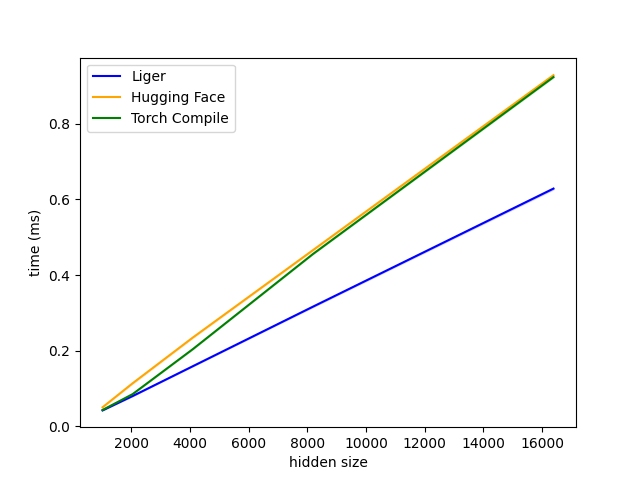
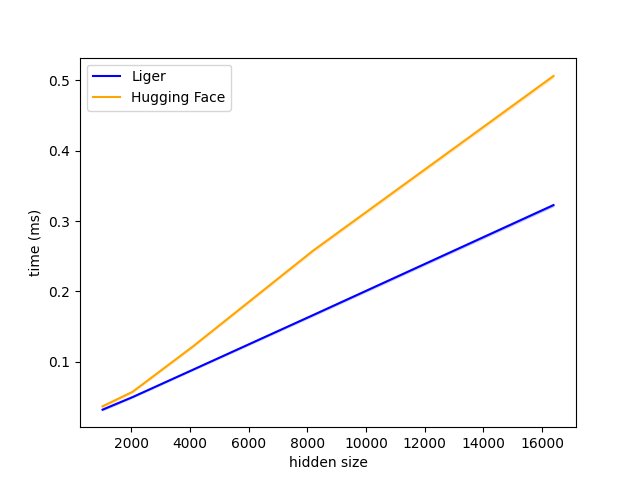
Remove torch compile from benchmark scripts

diff --git a/benchmark/benchmark_layer_norm.py b/benchmark/benchmark_layer_norm.py
@@ -15,9 +15,9 @@ from liger_kernel.transformers.layer_norm import LigerLayerNorm
             x_vals=[2**i for i in range(10, 15)],
             xlabel="hidden size",
             line_arg="provider",
-            line_vals=["liger", "huggingface", "torch_compile"],
-            line_names=["Liger", "Hugging Face", "Torch Compile"],
-            styles=[("blue", "solid"), ("orange", "solid"), ("green", "solid")],
+            line_vals=["liger", "huggingface"],
+            line_names=["Liger", "Hugging Face"],
+            styles=[("blue", "solid"), ("orange", "solid")],
             ylabel="time (ms)",
             plot_name="layernorm-fwd-speed-benchmark",
             args={"M": 4096, "dtype": torch.float32, "mode": "forward"},
@@ -27,9 +27,9 @@ from liger_kernel.transformers.layer_norm import LigerLayerNorm
             x_vals=[2**i for i in range(10, 15)],
             xlabel="hidden size",
             line_arg="provider",
-            line_vals=["liger", "huggingface", "torch_compile"],
-            line_names=["Liger", "Hugging Face", "Torch Compile"],
-            styles=[("blue", "solid"), ("orange", "solid"), ("green", "solid")],
+            line_vals=["liger", "huggingface"],
+            line_names=["Liger", "Hugging Face"],
+            styles=[("blue", "solid"), ("orange", "solid")],
             ylabel="time (ms)",
             plot_name="layernorm-full-speed-benchmark",
             args={"M": 4096, "dtype": torch.float32, "mode": "full"},
@@ -40,7 +40,6 @@ def bench_speed_layer_norm(M, N, dtype, provider, mode, eps=1e-6, device="cuda")
     x_shape = (M, N)
     triton_ln = LigerLayerNorm(hidden_size=N).to("cuda")
     torch_ln = torch.nn.LayerNorm(N, eps=eps).to("cuda")
-    torch_compile_ln = torch.compile(torch_ln)
 
     x = torch.randn(x_shape, dtype=dtype, device="cuda")
     dy = torch.randn_like(x)
@@ -52,8 +51,6 @@ def bench_speed_layer_norm(M, N, dtype, provider, mode, eps=1e-6, device="cuda")
             return triton_ln(x)
         if provider == "huggingface":
             return torch_ln(x)
-        if provider == "torch_compile":
-            return torch_compile_ln(x)
 
     if mode == "forward":
         ms, min_ms, max_ms = triton.testing.do_bench(
@@ -98,9 +95,9 @@ def benchmark_speed_layer_norm_wrapper():
             x_vals=[2**i for i in range(10, 15)],
             xlabel="hidden size",
             line_arg="provider",
-            line_vals=["liger", "huggingface", "torch_compile"],
-            line_names=["Liger", "Hugging Face", "Torch Compile"],
-            styles=[("blue", "solid"), ("orange", "solid"), ("green", "solid")],
+            line_vals=["liger", "huggingface"],
+            line_names=["Liger", "Hugging Face"],
+            styles=[("blue", "solid"), ("orange", "solid")],
             ylabel="GPU memory usage (MB)",
             plot_name="layernorm-full-memory-benchmark",
             args={"M": 4096, "dtype": torch.float32, "mode": "full"},
@@ -112,7 +109,6 @@ def bench_memory_layer_norm(M, N, dtype, provider, mode, eps=1e-6, device="cuda"
 
     triton_ln = LigerLayerNorm(hidden_size=N).to("cuda")
     torch_ln = torch.nn.LayerNorm(N, eps=eps).to("cuda")
-    torch_compile_ln = torch.compile(torch_ln)
 
     x = torch.randn(x_shape, dtype=dtype, device="cuda")
     dy = torch.randn_like(x)
@@ -123,8 +119,6 @@ def bench_memory_layer_norm(M, N, dtype, provider, mode, eps=1e-6, device="cuda"
             return triton_ln(x)
         if provider == "huggingface":
             return torch_ln(x)
-        if provider == "torch_compile":
-            return torch_compile_ln(x)
 
     def full():
         y = y_fwd()
